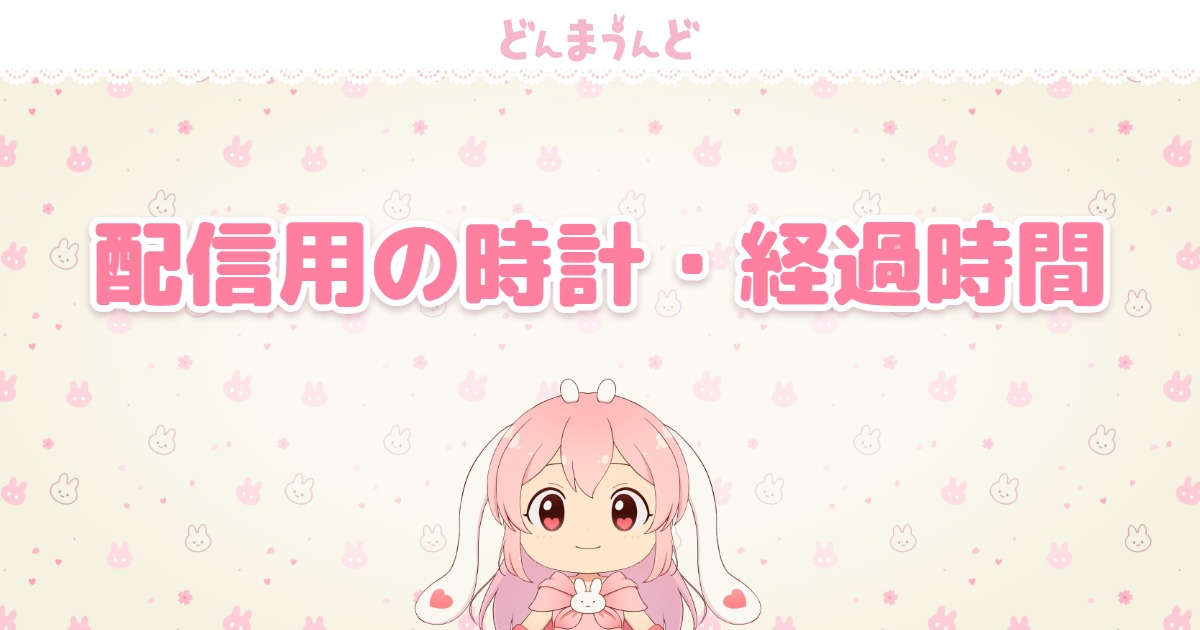
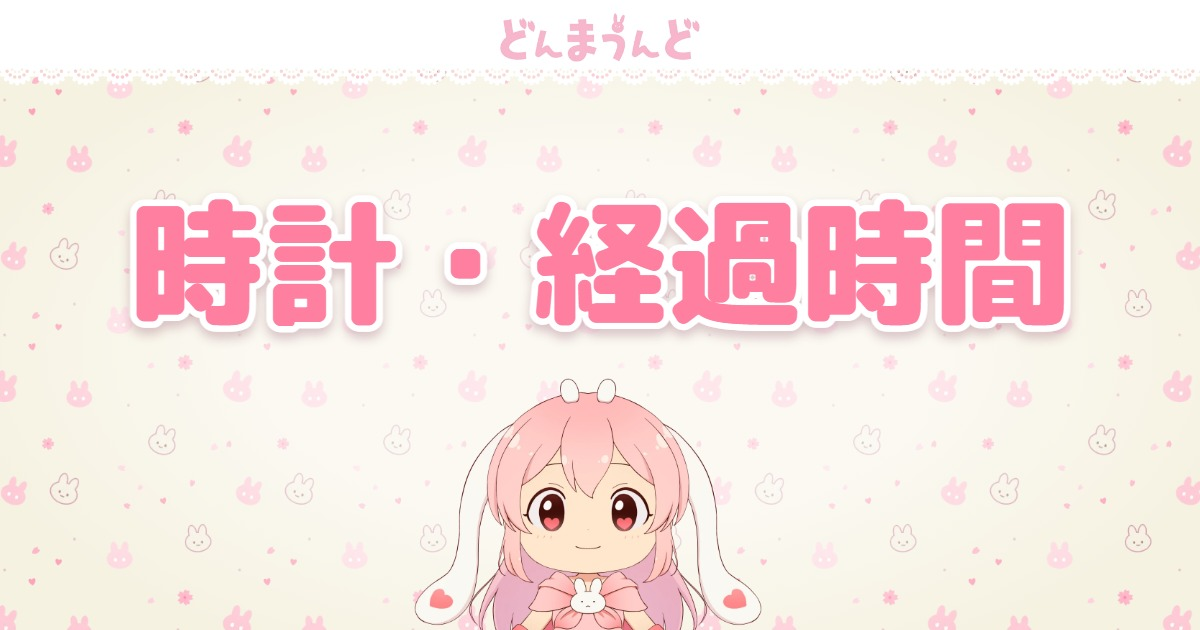
「配信用の時計・経過時間」を「時計・経過時間」に（配信の便利ツールの中なので）
ページのタイトル・見出し・OGP 画像・ツール一覧・README をそろえ、OGP 画像は ?v= を上げた。

Changed region(s): [[0.0617, 0.3016, 0.925, 0.5429]]

diff --git a/clock/index.html b/clock/index.html
@@ -4,23 +4,23 @@
 <head>
   <meta charset="UTF-8">
   <meta name="viewport" content="width=device-width, initial-scale=1.0">
-  <title>配信用の時計・経過時間 | どんまうんど-Tools</title>
+  <title>時計・経過時間 | どんまうんど-Tools</title>
   <link rel="icon" href="../favicon.ico">
   <meta name="description"
     content="OBS のブラウザソースで使える、配信用の時計と経過時間。配信・録画を始めてからの時間を自動で数え、海外の時刻も並べられます。配信オーバーレイと同じ 8 つのデザイン。見た目を選んで URL をコピーするだけ、登録なしの無料ツールです。">
   <link rel="canonical" href="https://donnma.com/tool/clock/">
-  <meta property="og:title" content="配信用の時計・経過時間 | どんまうんど-Tools">
+  <meta property="og:title" content="時計・経過時間 | どんまうんど-Tools">
   <meta property="og:description" content="OBS で使える時計と、配信・録画を始めてからの経過時間。見た目を選んで URL をコピーするだけ。">
   <meta property="og:type" content="website">
   <meta property="og:url" content="https://donnma.com/tool/clock/">
   <meta property="og:site_name" content="どんまうんど-Tools">
-  <meta property="og:image" content="https://donnma.com/tool/image/ogp-clock.jpg?v=20261005a">
+  <meta property="og:image" content="https://donnma.com/tool/image/ogp-clock.jpg?v=20261005b">
   <meta property="og:image:width" content="1200">
   <meta property="og:image:height" content="630">
-  <meta property="og:image:alt" content="配信用の時計・経過時間">
+  <meta property="og:image:alt" content="時計・経過時間">
   <meta name="twitter:card" content="summary_large_image">
   <meta name="twitter:site" content="@donnma777">
-  <meta name="twitter:image:alt" content="配信用の時計・経過時間">
+  <meta name="twitter:image:alt" content="時計・経過時間">
   <!-- Google tag (gtag.js) -->
   <script async src="https://www.googletagmanager.com/gtag/js?id=G-P08Q4F3Q5F"></script>
   <script>
@@ -898,7 +898,7 @@
   <!-- Hero -->
   <header class="hero">
     <div class="hero-inner">
-      <h1>配信用の時計・経過時間</h1>
+      <h1>時計・経過時間</h1>
       <p>OBS のブラウザソースで使える時計です。配信・録画を始めてからの時間を自動で数え、海外の時刻も並べられます。見た目は配信オーバーレイと同じ 8 つから。選んで URL をコピーするだけです。</p>
     </div>
   </header>

diff --git a/index.html b/index.html
@@ -840,7 +840,7 @@
           </div>
           <div>
             <div class="tool-tag">時計・配信時間<span class="pc-tag obs-tag">OBS用</span><span class="pc-tag">PC向け</span></div>
-            <div class="tool-name">配信用の時計・経過時間</div>
+            <div class="tool-name">時計・経過時間</div>
           </div>
           <span class="kind-badge">配信向け</span>
         </div>

diff --git a/README.md b/README.md
@@ -25,7 +25,7 @@
 | 配信オーバーレイ | [overlay/](overlay/README.md) | OBSのブラウザソースで使うオーバーレイのテーマ集（1920×1080） |
 | チャットCSSジェネレーター | [chat-css-generator/](chat-css-generator/README.md) | YouTube / Twitch のチャット欄の見た目をOBSのカスタムCSSで作る |
 | 登録者数カウンター・目標ゲージ | [youtube-subscribers/](youtube-subscribers/README.md) | YouTubeの登録者数と目標ゲージをOBSに表示する |
-| 配信用の時計・経過時間 | [clock/](clock/README.md) | OBS のブラウザソースで使う時計・もう1つの時刻・配信／録画の経過時間（設定は URL に入れる） |
+| 時計・経過時間 | [clock/](clock/README.md) | OBS のブラウザソースで使う時計・もう1つの時刻・配信／録画の経過時間（設定は URL に入れる） |
 | トーナメント表メーカー | [tournament/](tournament/README.md) | 大会のトーナメント表・試合テロップ・選曲をOBSや画像で使う |
 | ルーレット | [roulette/](roulette/README.md) | OBSのドックやChromeから回せるルーレット |
 | あみだくじ | [amida/](amida/README.md) | 横線を足したり1人ずつ開けたりできるあみだくじ。OBSにも出せる |

diff --git a/clock/README.md b/clock/README.md
@@ -1,4 +1,4 @@
-# 配信用の時計・経過時間
+# 時計・経過時間
 
 OBS のブラウザソースで使う時計です。時計・もう1つの時刻（海外）・経過時間（配信・録画・決めた時刻・表示してから）を出します。
 
